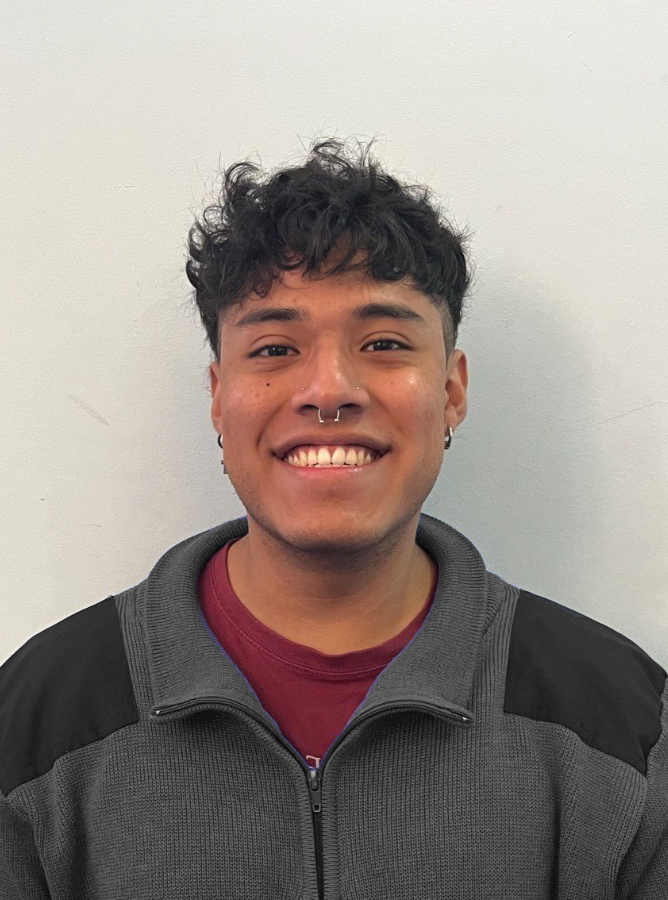
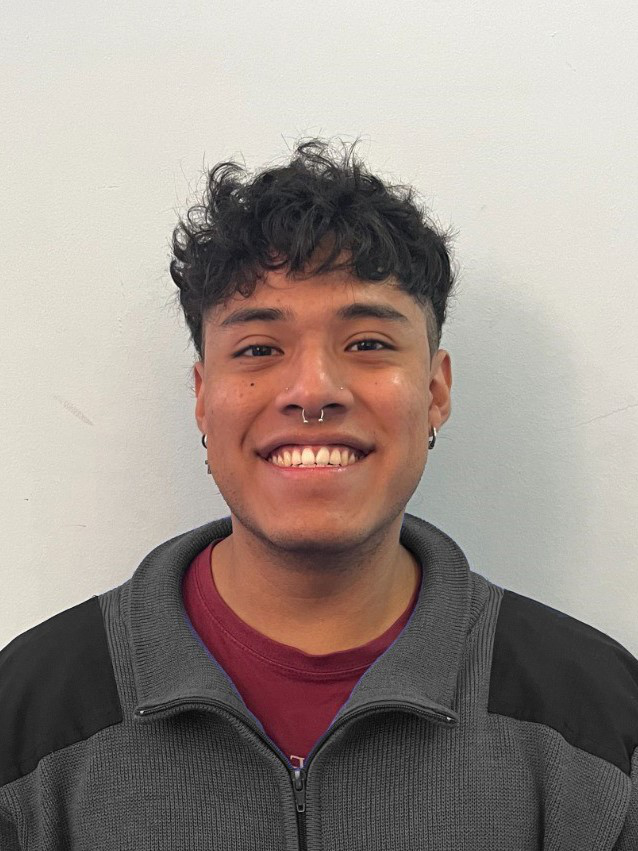
foto png

Changed region(s): [[0.0, 0.1528, 1.0, 1.0], [0.5658, 0.2444, 0.5956, 0.275]]

diff --git a/index.html b/index.html
@@ -76,7 +76,7 @@
     			<div class="col-md-6 col-lg-6 d-flex">
     				<div class="img-about img d-flex align-items-stretch">
     					<div class="overlay"></div>
-	    				<div class="img d-flex align-self-stretch align-items-center" style="background-image:url(images/AboutMePhoto.jpg);">
+	    				<div class="img d-flex align-self-stretch align-items-center" style="background-image:url(images/AboutMePhoto.png);">
 	    				</div>
     				</div>
     			</div>
